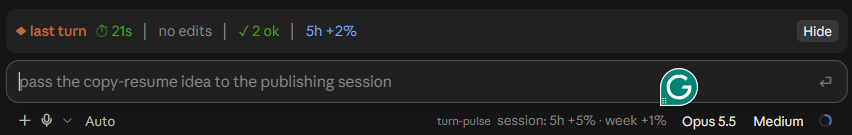
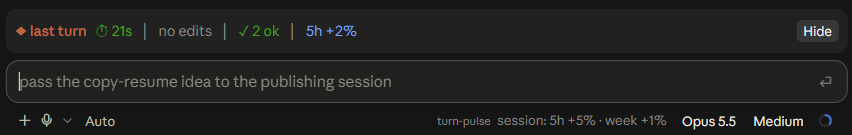
Fix command block and screenshots in the Claude Code mods post
Inline code styles leaked into code blocks and indented only the first
line. Frame the screenshots, show the retina Sessions image at its
logical size, remove a browser extension's badge from turn-pulse, and
list all three install commands.

Changed region(s): [[0.7629, 0.5037, 0.8239, 0.8]]

diff --git a/_sass/_post.scss b/_sass/_post.scss
@@ -159,7 +159,7 @@
 
     h2:first-child { margin-top: 0; }
 
-    code {
+    :not(pre) > code {
         font-family: var(--font-mono);
         font-size: 0.875em;
         padding: 1px var(--space-1);
@@ -168,6 +168,12 @@
     }
 
     a { color: var(--color-accent); }
+
+    .screenshot {
+        display: block;
+        border: 1px solid var(--color-border);
+        border-radius: var(--radius);
+    }
 }
 
 .post-nav {
